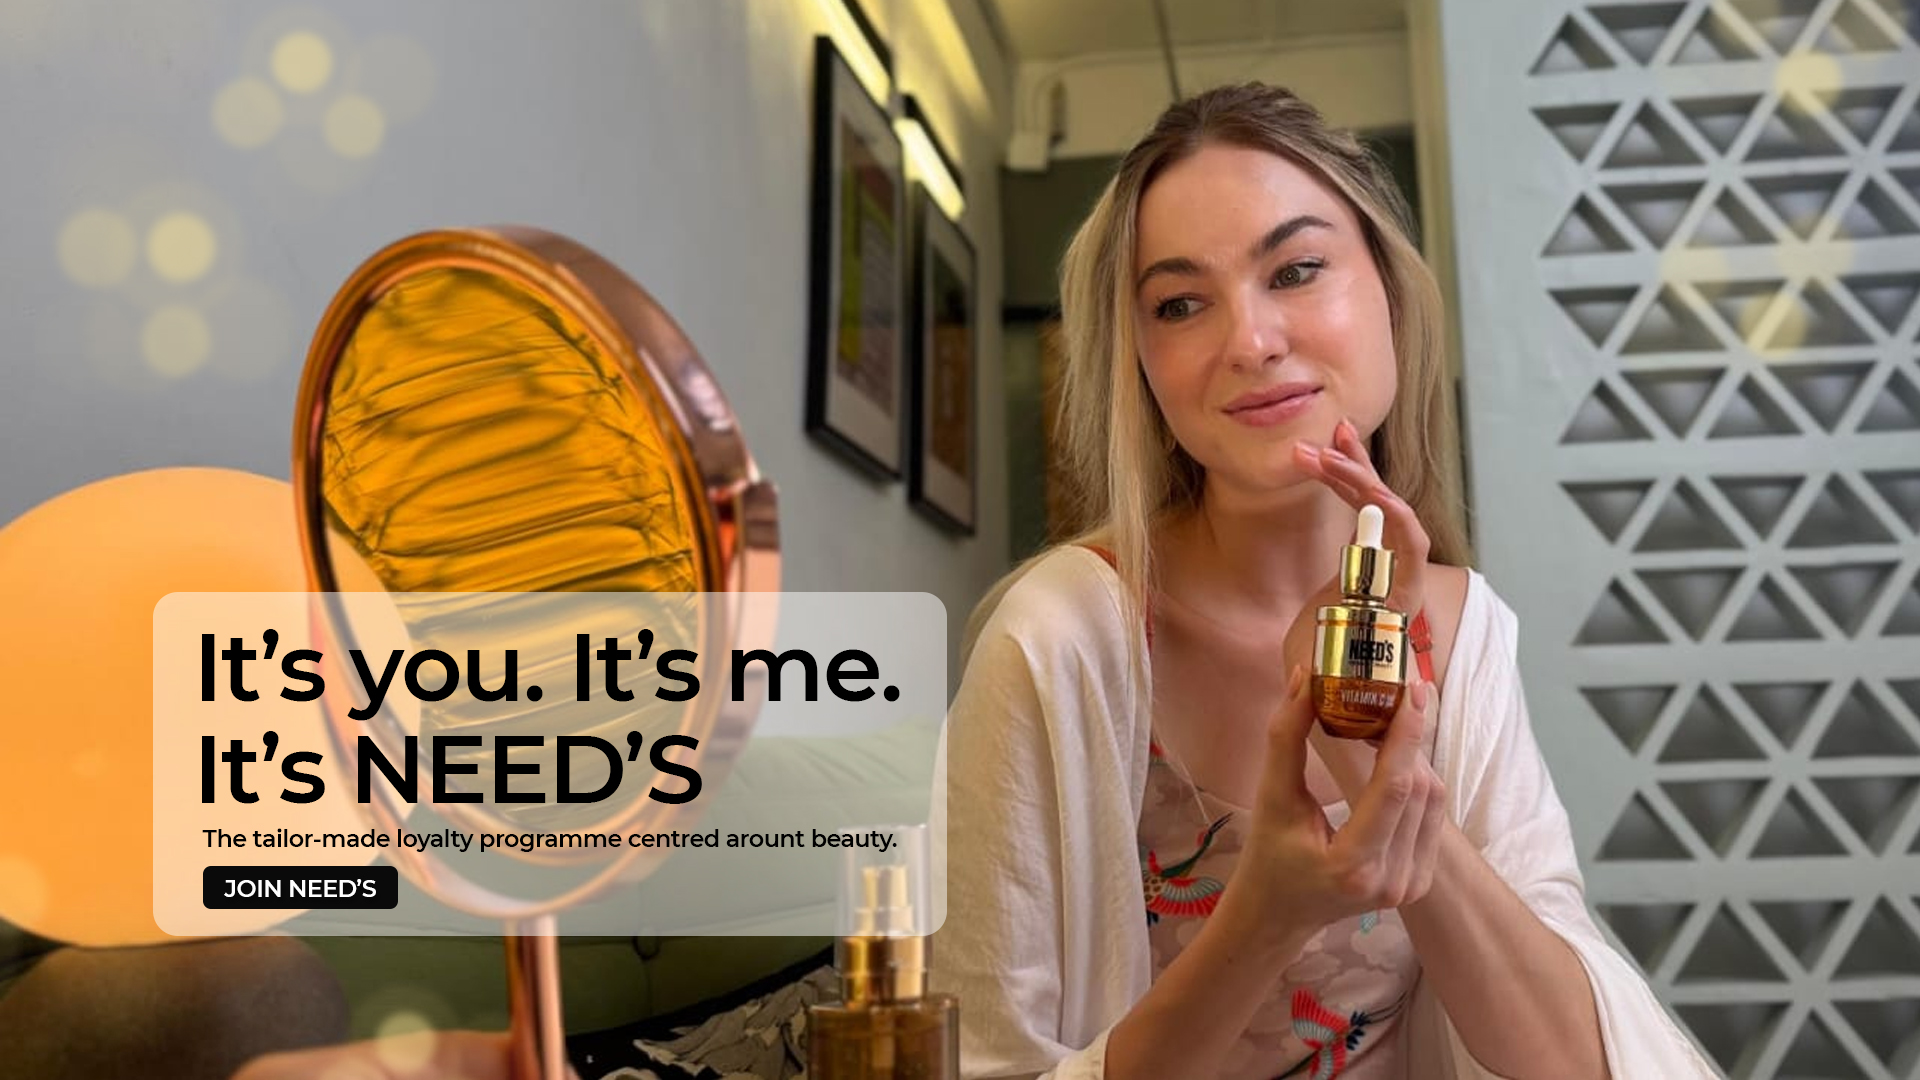
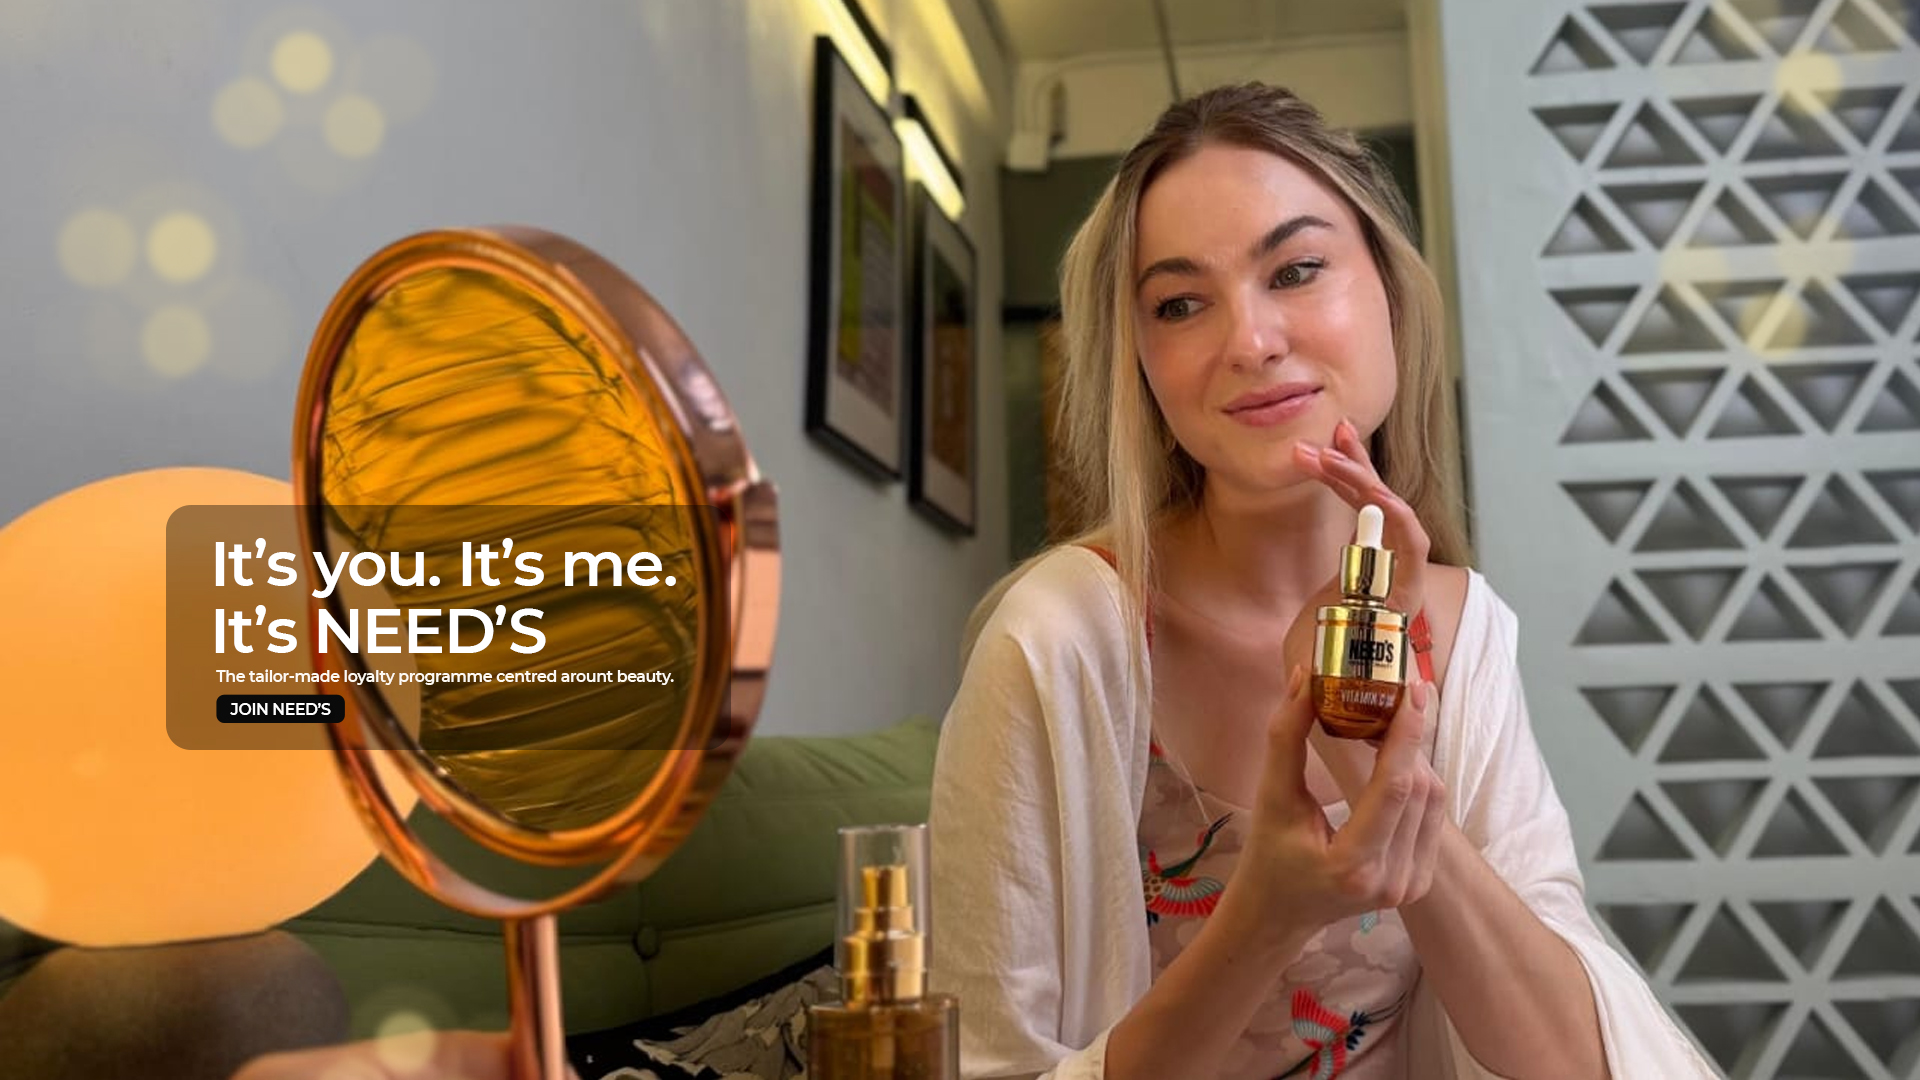
changes

Changed region(s): [[0.0625, 0.4583, 0.5, 0.8861]]

diff --git a/src/components/OurServicesSection.jsx b/src/components/OurServicesSection.jsx
@@ -5,7 +5,7 @@ const OurServicesSection = () => {
     const services = [
         {
             id: 1,
-            image: '/images/service/service1.webp',
+            image: '/images/service/service1.png',
             title: 'INSTANT MAKEUP TRY-ON',
             description: 'Try our products on for yourself and unlock your creativity',
             buttonText: 'UNLOCK YOUR CREATIVITY',
@@ -13,28 +13,28 @@ const OurServicesSection = () => {
         },
         {
             id: 2,
-            image: '/images/service/service2.webp',
-            title: 'KIKO MILANO BEAUTY SERVICES',
+            image: '/images/service/service2.png',
+            title: 'NEEDS BEAUTY SERVICES',
             description: 'Meet our beauty experts and treat yourself to a personalized make-up session',
             buttonText: 'DISCOVER OUR SERVICES',
             link: '/beauty-services'
         },
         {
             id: 3,
-            image: '/images/service/service3.webp',
+            image: '/images/service/service3.png',
             title: 'FOUNDATION FINDER',
             description: 'Find the perfect match for your unique skin\'s tone in just a few clicks',
             buttonText: 'FIND MY SHADE PRECISELY',
             link: '/foundation-finder'
         },
-        {
-            id: 4,
-            image: '/images/service/service4.webp',
-            title: 'SKINCARE PRO ADVISOR',
-            description: 'Build your skincare routine with our cutting-edge AI-powered app',
-            buttonText: 'DEFINE YOUR ROUTINE',
-            link: '/skincare-advisor'
-        }
+        // {
+        //     id: 4,
+        //     image: '/images/service/service4.webp',
+        //     title: 'SKINCARE PRO ADVISOR',
+        //     description: 'Build your skincare routine with our cutting-edge AI-powered app',
+        //     buttonText: 'DEFINE YOUR ROUTINE',
+        //     link: '/skincare-advisor'
+        // }
     ];
 
     return (
@@ -50,25 +50,25 @@ const OurServicesSection = () => {
                 </div>
 
                 {/* Service Cards Grid */}
-                <div className="grid grid-cols-1 md:grid-cols-4 gap-6 md:gap-16">
+                <div className="grid grid-cols-1 md:grid-cols-3 gap-6 md:gap-16">
                     {services.map((service) => (
                         <div
                             key={service.id}
                             className="group relative flex flex-col rounded-lg overflow-hidden transition-shadow duration-300 h-full"
                         >
                             {/* Image */}
-                            <div className="relative overflow-hidden">
+                            <div className="relative overflow-hidden flex justify-center">
                                 <img
                                     src={service.image}
                                     alt={service.title}
-                                    className="w-full h-auto object-cover group-hover:scale-105 transition-transform duration-300"
+                                    className="w-50 h-50 object-cover group-hover:scale-105 transition-transform duration-300"
                                 />
                             </div>
 
                             {/* Content */}
-                            <div className="flex flex-col flex-grow p-6 md:p-8">
+                            <div className="flex flex-col flex-grow p-6 md:p-8 items-center text-center">
                                 {/* Title */}
-                                <h3 className="text-xl md:text-2xl font-bold uppercase tracking-wide text-gray-900 mb-4">
+                                <h3 className="text-xl md:text-2xl font-semibold uppercase tracking-wide text-gray-900 mb-4">
                                     {service.title}
                                 </h3>
 
@@ -78,7 +78,7 @@ const OurServicesSection = () => {
                                 </p>
 
                                 {/* Button - pushed to bottom */}
-                                <div className="mt-auto">
+                                <div className="mt-auto flex justify-center">
                                     <Link
                                         to={service.link}
                                         className="button-slide w-max inline-block border-2 border-gray-900 bg-white text-gray-900 px-6 py-3 uppercase text-xs font-bold tracking-wider rounded relative overflow-hidden transition-all duration-300 hover:border-transparent hover:shadow-lg hover:shadow-gray-400/50"

diff --git a/src/components/Footer.jsx b/src/components/Footer.jsx
@@ -12,7 +12,7 @@ const Footer = () => {
                 <div className="grid grid-cols-1 lg:grid-cols-3 gap-12 mb-12 pb-12 border-b border-[var(--color-border)]">
                     {/* Left Side - Newsletter */}
                     <div className="lg:col-span-1">
-                        <h3 className="text-lg md:text-xl font-normal text-secondary mb-2">KIKO Events!</h3>
+                        <h3 className="text-lg md:text-xl font-normal text-secondary mb-2">NEEDS Events!</h3>
                         <p className="text-xl md:text-2xl font-bold text-secondary mb-6">Stay in the loop!</p>
                         <p className="text-xs text-[var(--color-text-secondary)] mb-6 leading-relaxed">
                             Having read the information note pursuant to art. 13 of the GDPR, I declare I am 16 or over, I am asking to receive the newsletter and I give you my consent to send me e-mails with marketing communications as specified in the information note
@@ -50,7 +50,7 @@ const Footer = () => {
 
                         {/* ABOUT KIKO Column */}
                         <div>
-                            <h3 className="text-sm font-bold mb-6 uppercase tracking-widest text-secondary">ABOUT KIKO</h3>
+                            <h3 className="text-sm font-bold mb-6 uppercase tracking-widest text-secondary">ABOUT NEEDS</h3>
                             <ul className="text-sm text-secondary flex flex-col gap-3">
                                 <li><Link to="/about" className="hover:text-primary transition-colors">Our Brand</Link></li>
                                 <li><Link to="/press" className="hover:text-primary transition-colors">Press Releases</Link></li>
@@ -65,7 +65,7 @@ const Footer = () => {
                     <h3 className="text-sm font-bold uppercase tracking-widest text-secondary">FOLLOW US ON</h3>
                     <div className="flex gap-8">
                         <a 
-                            href="https://instagram.com/kikomilano" 
+                            href="https://instagram.com/needsmilano" 
                             target="_blank" 
                             rel="noopener noreferrer" 
                             className="w-10 h-10 bg-secondary text-white flex items-center justify-center hover:bg-primary hover:text-secondary transition-colors"
@@ -74,7 +74,7 @@ const Footer = () => {
                             <Instagram size={20} />
                         </a>
                         <a 
-                            href="https://facebook.com/kikomilano" 
+                            href="https://facebook.com/needsmilano" 
                             target="_blank" 
                             rel="noopener noreferrer" 
                             className="w-10 h-10 bg-secondary text-white flex items-center justify-center hover:bg-primary hover:text-secondary transition-colors"

diff --git a/src/components/FollowViralHypeSection.jsx b/src/components/FollowViralHypeSection.jsx
@@ -11,32 +11,42 @@ const FollowViralHypeSection = () => {
     const carouselImages = [
         {
             id: 1,
-            image: '/images/whatsnew/whatsnew_1.webp',
+            image: '/images/whatsnew/01.png',
             alt: 'Woman applying product'
         },
         {
             id: 2,
-            image: '/images/whatsnew/whatsnew_2.webp',
+            image: '/images/whatsnew/02.png',
             alt: 'Makeup products in red box'
         },
         {
             id: 3,
-            image: '/images/whatsnew/whatsnew_main.webp',
+            image: '/images/whatsnew/03.png',
             alt: 'Hand with red primer'
         },
         {
             id: 4,
-            image: '/images/whatsnew/whatsnew_1.webp',
+            image: '/images/whatsnew/04.png',
             alt: 'Woman applying eyeliner'
         },
         {
             id: 5,
-            image: '/images/whatsnew/whatsnew_2.webp',
+            image: '/images/whatsnew/05.png',
             alt: 'Arm swatches of lipstick'
         },
         {
             id: 6,
-            image: '/images/whatsnew/whatsnew_main.webp',
+            image: '/images/whatsnew/06.png',
+            alt: 'Product packaging'
+        },
+        {
+            id: 7,
+            image: '/images/whatsnew/07.png',
+            alt: 'Product packaging'
+        },
+        {
+            id: 8,
+            image: '/images/whatsnew/08.png',
             alt: 'Product packaging'
         }
     ];
@@ -71,16 +81,16 @@ const FollowViralHypeSection = () => {
                     {/* Social Media Links */}
                     <div className="flex items-center justify-center gap-6 mb-8">
                         <a
-                            href="https://www.instagram.com/kikomilano"
+                            href="https://www.instagram.com/needsmilano"
                             target="_blank"
                             rel="noopener noreferrer"
                             className="flex items-center gap-2 text-gray-700 hover:text-gray-900 transition-colors"
                         >
                             <Instagram size={20} />
-                            <span className="text-sm font-medium">@kikomilano</span>
+                            <span className="text-sm font-medium">@needsmilano</span>
                         </a>
                         <a
-                            href="https://www.tiktok.com/@kikomilano"
+                            href="https://www.tiktok.com/@needsmilano"
                             target="_blank"
                             rel="noopener noreferrer"
                             className="flex items-center gap-2 text-gray-700 hover:text-gray-900 transition-colors"

diff --git a/src/components/Navbar.jsx b/src/components/Navbar.jsx
@@ -157,7 +157,7 @@ const Navbar = () => {
                     <Link to="/">
                         <img
                             src={logo}
-                            alt="Kiko Milano"
+                            alt="NEEDS Milano"
                             className="h-7 w-18"
                         />
                     </Link>
@@ -453,7 +453,7 @@ const Navbar = () => {
                     <div className="p-4 border-b flex justify-between items-center">
                         <img
                             src={logoMobile}
-                            alt="Kiko Milano"
+                            alt="NEEDS Milano"
                             className="h-8"
                         />
                         <button onClick={() => setIsMenuOpen(false)}>

diff --git a/src/components/OurBrandSection.jsx b/src/components/OurBrandSection.jsx
@@ -34,7 +34,7 @@ const OurBrandSection = () => {
 
                         {/* Description */}
                         <p className="text-sm md:text-base text-gray-700 leading-relaxed max-w-lg">
-                            KIKO MILANO is a brand built for self-expression. We capture global trends and infuse them with our own distinctive style drawn from our Italian perspective before sharing them with our audience across the world.
+                            NEEDS is a brand built for self-expression. We capture global trends and infuse them with our own distinctive style drawn from our Italian perspective before sharing them with our audience across the world.
                         </p>
                     </div>
                 </div>

diff --git a/src/components/SeasonSection.jsx b/src/components/SeasonSection.jsx
@@ -56,7 +56,7 @@ const SeasonSection = () => {
                             <p className="text-sm md:text-base font-light uppercase tracking-widest text-[var(--color-text-secondary)] mb-2">
                                 YOUR SEASON
                             </p>
-                            <h2 style={{fontFamily: 'KIKO Pro Arabic_V01 Medium !important'}} className="text-4xl md:text-6xl font-semibold text-secondary">
+                            <h2 style={{fontFamily: 'NEEDS Pro Arabic_V01 Medium !important'}} className="text-4xl md:text-6xl font-semibold text-secondary">
                                 {selectedSeason}
                             </h2>
                         </div>

diff --git a/src/pages/Profile.jsx b/src/pages/Profile.jsx
@@ -39,7 +39,7 @@ const Profile = () => {
                         <div className="grid grid-cols-1 md:grid-cols-2 gap-8">
                             <div>
                                 <label className="text-[10px] font-bold uppercase tracking-widest text-gray-400 block mb-2">Full Name</label>
-                                <p className="text-sm font-bold">Kiko Milano User</p>
+                                <p className="text-sm font-bold">NEEDS Milano User</p>
                             </div>
                             <div>
                                 <label className="text-[10px] font-bold uppercase tracking-widest text-gray-400 block mb-2">Email Address</label>

diff --git a/src/components/ProductCard.jsx b/src/components/ProductCard.jsx
@@ -109,11 +109,11 @@ const ProductCard = ({ product }) => {
                 </div>
 
                 {/* Shades Available */}
-                {numShades > 0 && (
+                {/* {numShades > 0 && (
                     <p className="text-xs text-gray-600 mb-4 text-center border-1 border-gray-200 px-2  p-[2px] rounded-full">
                         {numShades} {numShades === 1 ? 'shade' : 'shades'} available
                     </p>
-                )}
+                )} */}
 
                 {/* Action Buttons */}
                 <div className="flex items-center gap-2 mt-auto w-full justify-center">

diff --git a/src/pages/Auth.jsx b/src/pages/Auth.jsx
@@ -7,7 +7,7 @@ const Auth = () => {
         <div className="container mx-auto px-4 py-20 flex justify-center">
             <div className="w-full max-w-md bg-white p-8 md:p-12 rounded-2xl shadow-sm border border-gray-100">
                 <div className="flex justify-center mb-8">
-                    <img src="/src/assets/logos/Logo.webp" alt="Kiko Milano" className="h-12" />
+                    <img src="/src/assets/logos/Logo.webp" alt="NEEDS Milano" className="h-12" />
                 </div>
                 <div className="flex gap-8 mb-12 border-b border-gray-100 pb-4">
                     <button

diff --git a/src/components/IngredientsGlossarySection.jsx b/src/components/IngredientsGlossarySection.jsx
@@ -31,7 +31,7 @@ const IngredientsGlossarySection = () => {
 
                         {/* Description */}
                         <p className="text-sm md:text-base text-gray-700 mb-8 max-w-md leading-relaxed w-full">
-                            Check out the KIKO Ingredients Glossary: learn about the active ingredients we use and choose what's right for you.
+                            Check out the NEEDS Ingredients Glossary: learn about the active ingredients we use and choose what's right for you.
                         </p>
 
                         {/* Button */}

diff --git a/src/pages/Home.jsx b/src/pages/Home.jsx
@@ -34,10 +34,10 @@ import accessoriesImg from '../assets/topcategories/accessories.webp';
 
 const heroImages = [
     // hero1,
-    hero7,
     hero6,
-    hero5,
-    hero3,
+    hero7,
+    // hero5,
+    // hero3,
     hero4,
    
 ];
